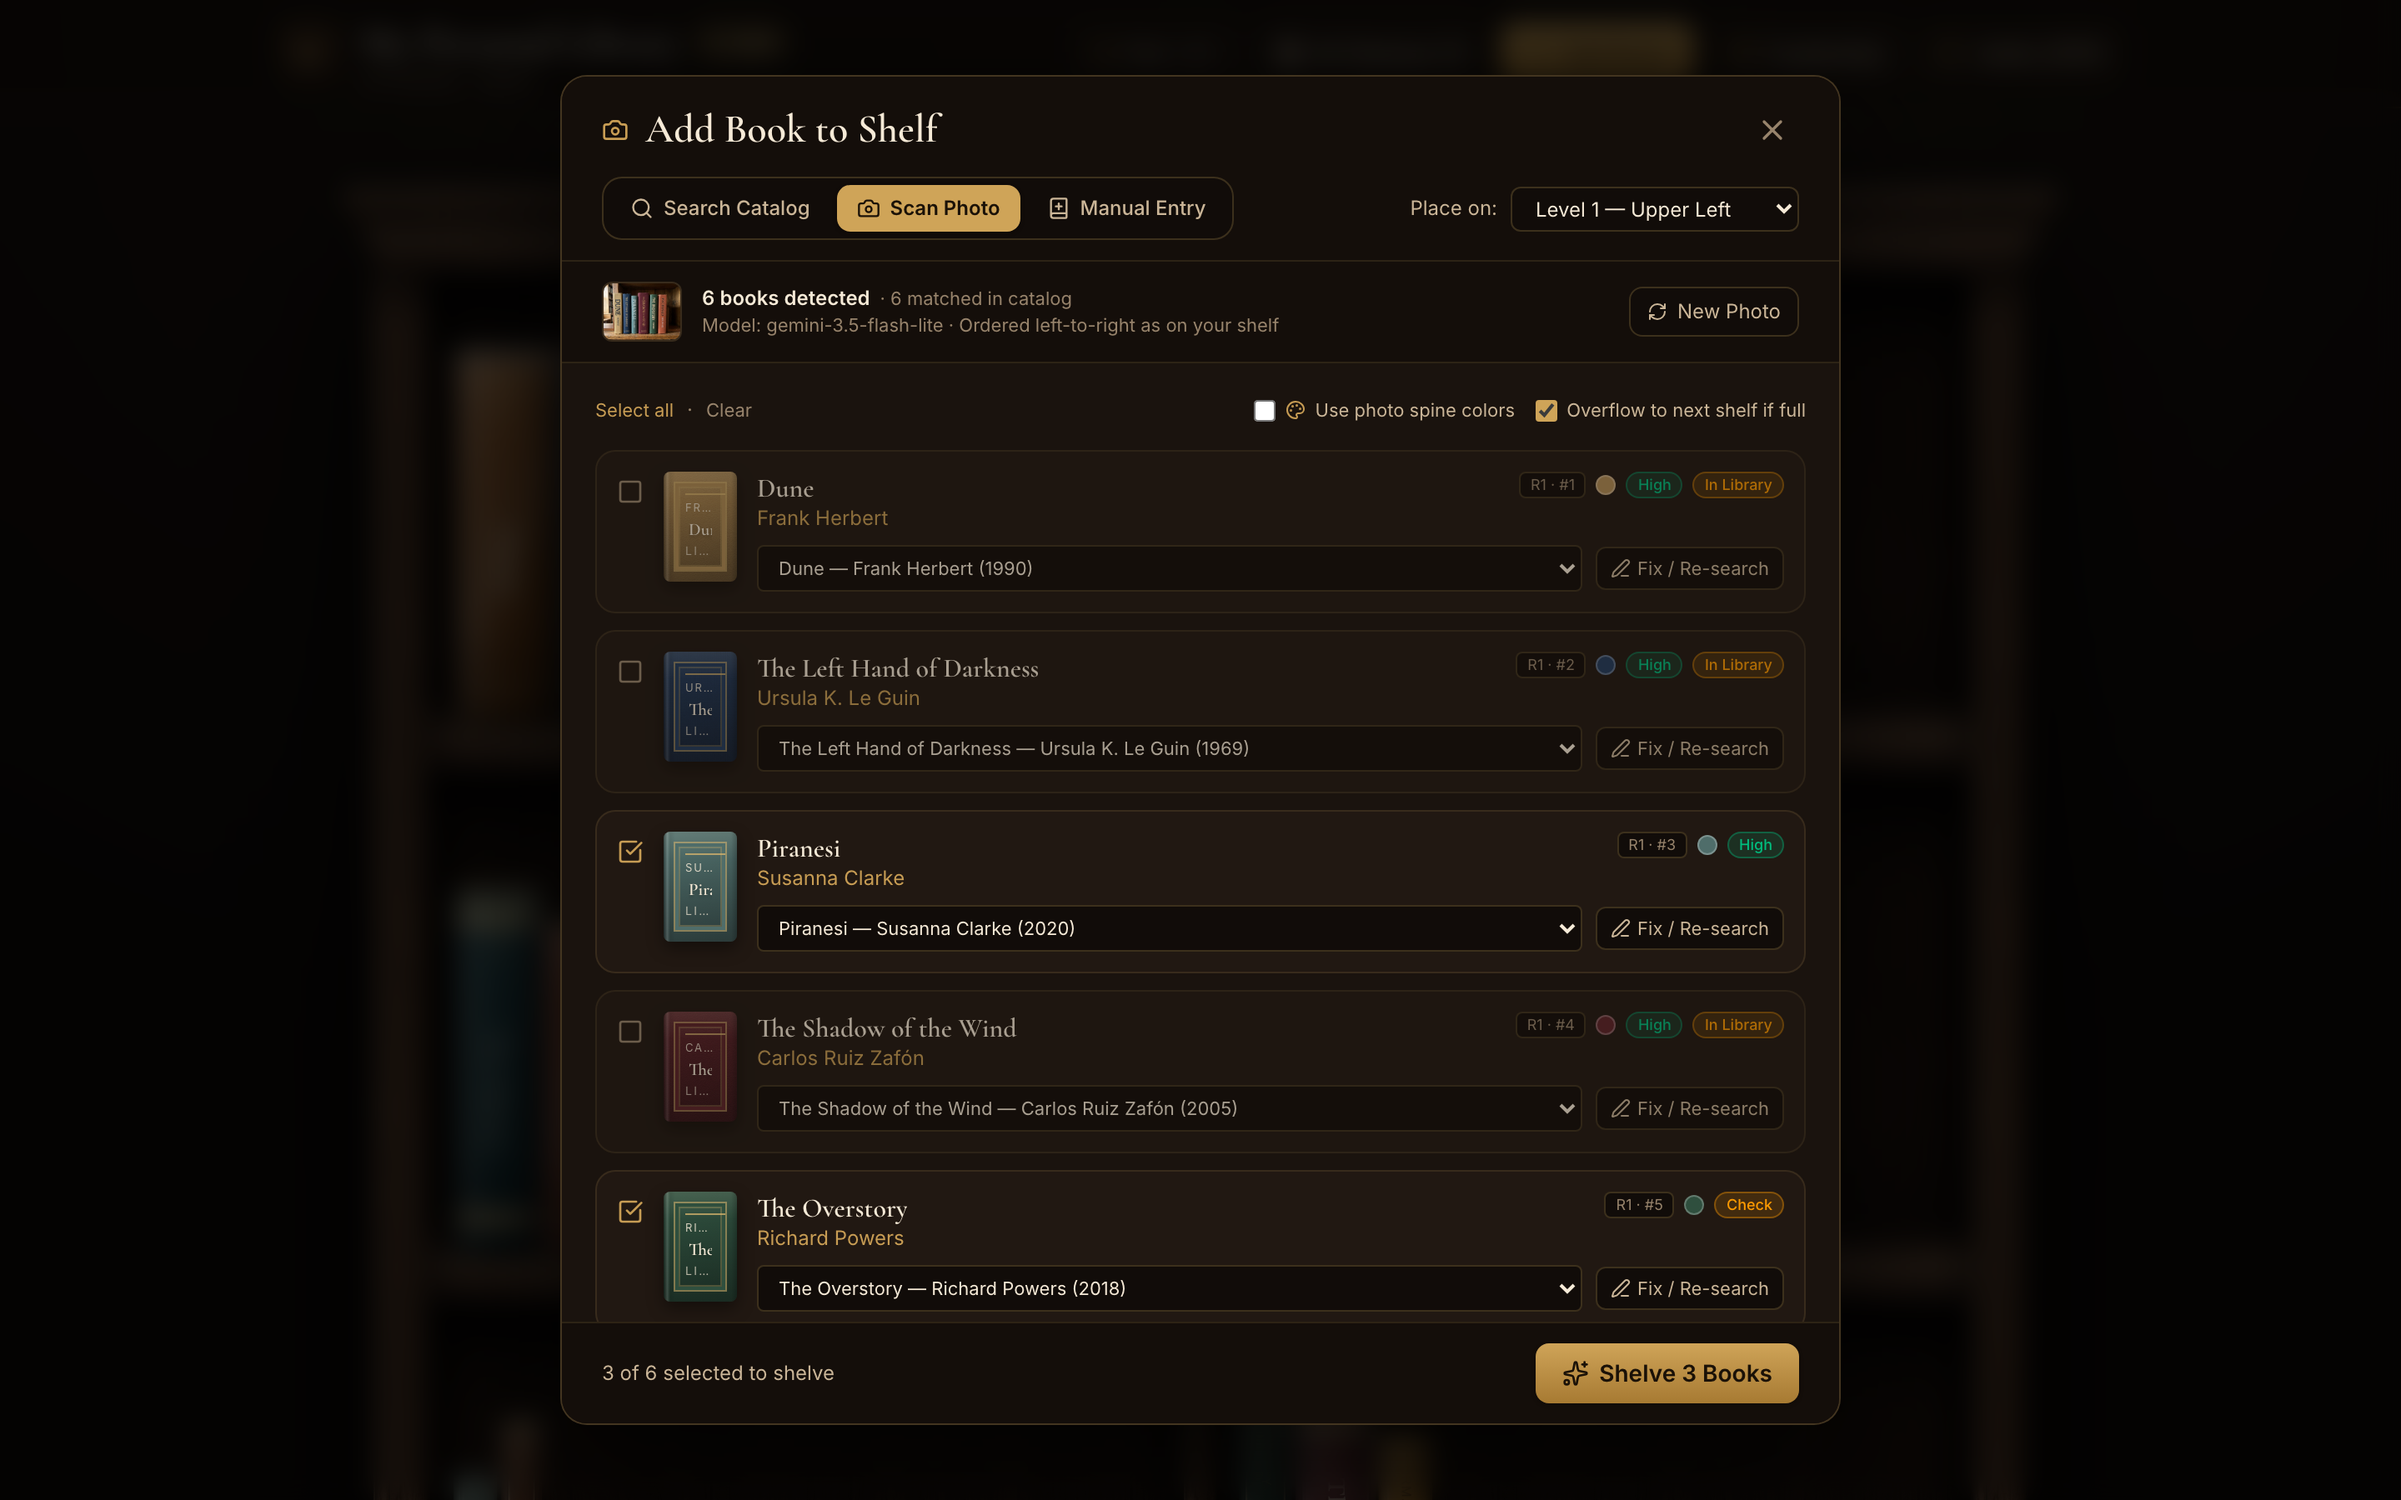
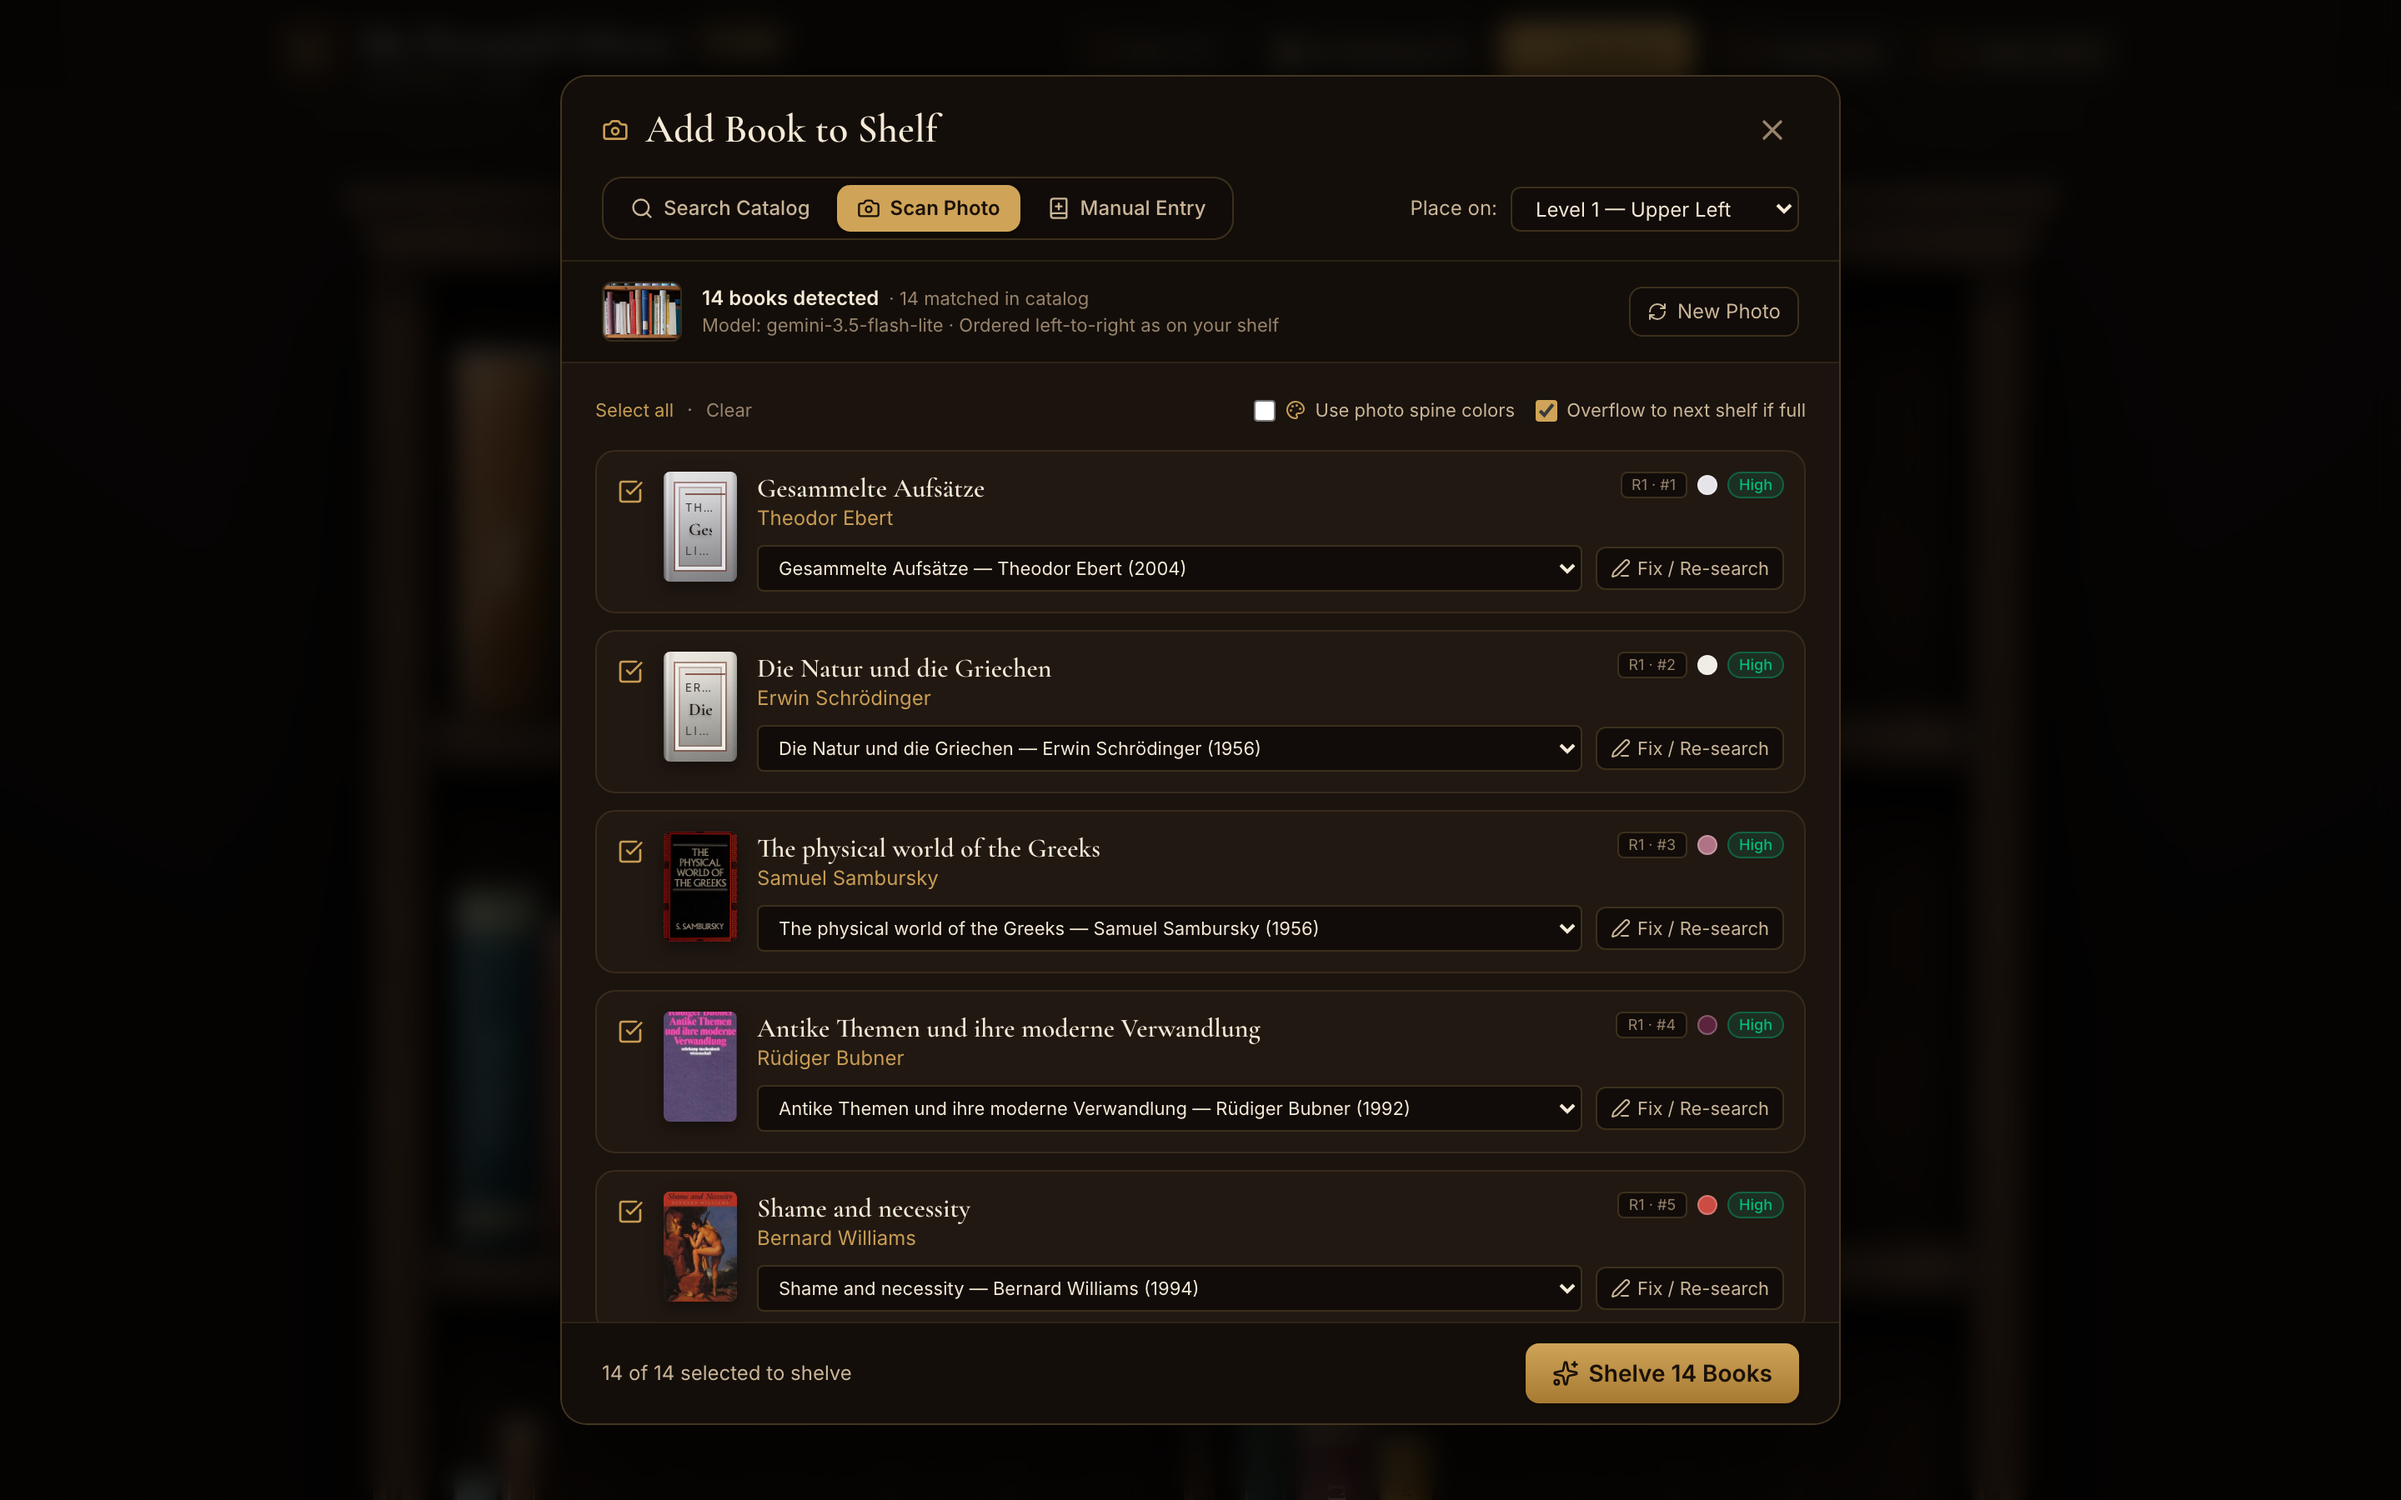
docs: lead README with core features and real live Gemini shelf scan screenshots

diff --git a/README.md b/README.md
@@ -31,31 +31,7 @@ This is a **personal hobby project** built for fun to have a nicer place to keep
 
 ## ✨ The Fun Stuff
 
-### 📸 Snap a Real Shelf Photo, Shelve the Whole Row *(Optional AI)*
-Adding 50 physical books one by one is tedious, so you can just take a photo of your real bookcase under **Add Book → Scan Photo**:
-
-- Your browser resizes the photo locally before uploading to keep things fast and lightweight.
-- **Gemini Flash-Lite** reads the spines top-to-bottom, left-to-right, estimates each spine's real color, and matches editions against Google Books & Open Library.
-- A review screen shows confidence badges (`High` / `Check` / `Low`), automatically unchecks books already `In Library`, lets you swap editions or fix a misread title with zero extra AI calls, optionally keeps the photo's real spine colors, and shelves the whole batch in photo order (overflowing to the next shelf if one fills up).
-
-<table>
-  <tr>
-    <td width="50%" valign="top">
-      <img src="docs/screenshots/shelf-photo-upload.png" alt="Step 1: Drop a real bookshelf photo ready for Gemini Flash-Lite" width="100%" />
-      <p align="center"><strong>1. Drop a Shelf Photo</strong><br />Auto-compressed locally (e.g. <code>225 KB</code>) before sending to Gemini Flash-Lite to stay fast and free-tier friendly.</p>
-    </td>
-    <td width="50%" valign="top">
-      <img src="docs/screenshots/shelf-photo-scan.png" alt="Step 2: Gemini Flash-Lite review checklist with duplicate detection and batch shelving" width="100%" />
-      <p align="center"><strong>2. Review &amp; Batch Shelve</strong><br />Spines are read left-to-right with color dots, confidence badges, automatic <code>In Library</code> duplicate skip, edition picker, and one-click shelving.</p>
-    </td>
-  </tr>
-</table>
-
-> **Note:** `GEMINI_API_KEY` is **completely optional**. If you don't configure a key, the entire app works normally—only the **Scan Photo** tab stays disabled with a short setup notice.
-
-<br />
-
-### 🏛 Multiple Bookcases, Rooms & Live Customizer
+### 🏛 Multiple Bookcases, Rooms & 3D Book Reveals
 Keep separate shelves for reading years (`2026`, `2025`), genres, or moods—then zoom out to **All Shelves** to see miniature live previews of every bookcase and drag-and-drop their order.
 
 <img src="docs/screenshots/all-shelves-overview.png" alt="All Shelves Overview" width="100%" />
@@ -74,6 +50,30 @@ Keep separate shelves for reading years (`2026`, `2025`), genres, or moods—the
     </td>
   </tr>
 </table>
+
+<br />
+
+### 📸 Snap a Real Shelf Photo, Shelve the Whole Row *(Optional AI)*
+Adding 50 physical books one by one is tedious, so you can just take a photo of your real bookcase under **Add Book → Scan Photo**:
+
+- Your browser resizes the photo locally before uploading to keep things fast and lightweight.
+- **Gemini Flash-Lite** reads the spines top-to-bottom, left-to-right (even mixed-language shelves, skipping backwards or unreadable books), estimates each spine's real color, and matches editions against Google Books & Open Library.
+- A review screen shows confidence badges (`High` / `Check` / `Low`), automatically unchecks books already `In Library`, lets you swap editions or fix a misread title with zero extra AI calls, optionally keeps the photo's real spine colors, and shelves the whole batch in photo order (overflowing to the next shelf if one fills up).
+
+<table>
+  <tr>
+    <td width="50%" valign="top">
+      <img src="docs/screenshots/shelf-photo-upload.png" alt="Step 1: Drop a real bookshelf photo ready for Gemini Flash-Lite" width="100%" />
+      <p align="center"><strong>1. Drop a Real Shelf Photo</strong><br />Auto-compressed locally (<code>238 KB</code>) before sending to Gemini Flash-Lite to stay fast and free-tier friendly.</p>
+    </td>
+    <td width="50%" valign="top">
+      <img src="docs/screenshots/shelf-photo-scan.png" alt="Step 2: Live Gemini Flash-Lite scan matching 14 of 14 books with covers and spine colors" width="100%" />
+      <p align="center"><strong>2. Review &amp; Batch Shelve</strong><br />Live result: 14 of 14 readable spines matched left-to-right with real covers, spine color dots, confidence badges, and one-click shelving.</p>
+    </td>
+  </tr>
+</table>
+
+> **Note:** `GEMINI_API_KEY` is **completely optional**. If you don't configure a key, the entire app works normally—only the **Scan Photo** tab stays disabled with a short setup notice.
 
 <br />
 
